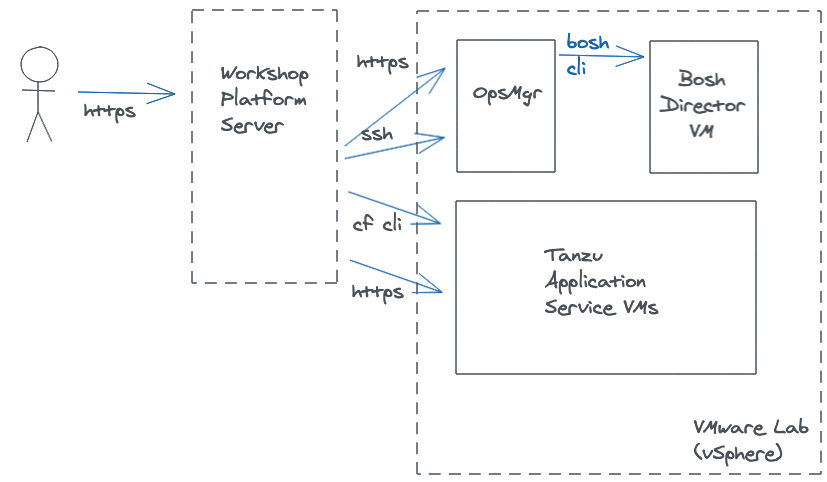
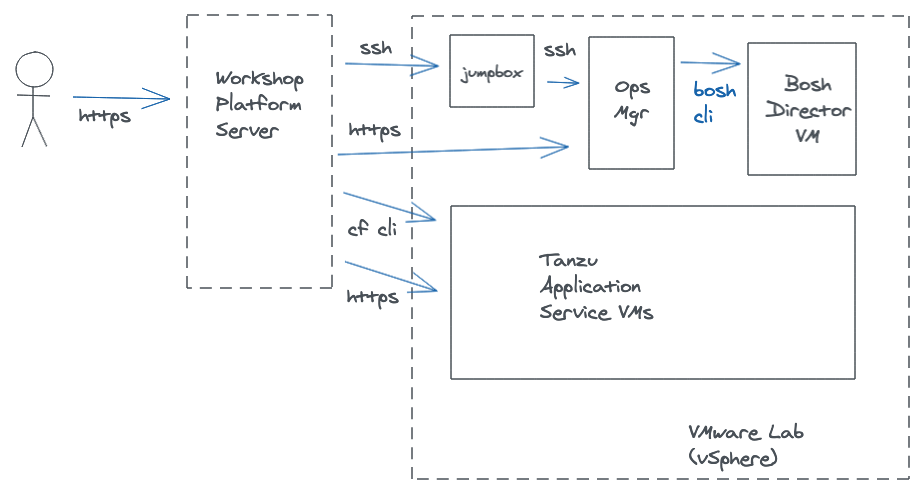
Update lab connectivity steps

diff --git a/workshop/content/labs/00_bosh_lab-connect.md b/workshop/content/labs/00_bosh_lab-connect.md
@@ -20,38 +20,44 @@ Familiarization with Workshop Lab environment.
 1. SSH into the jumpbox VM of your Lab environment
 
     ```execute
-    ssh ubuntu@ubuntu-236.haas-236.pez.pivotal.io
+    ssh -o "StrictHostKeyChecking no" ubuntu@ubuntu-236.haas-236.pez.pivotal.io
     ```
-1. Once into the jumpbox, SSH into the Ops Manager VM of your environment
+1. Once logged in to the jumpbox, SSH into the Ops Manager VM of your environment
 
     ```execute
     ssh ubuntu@opsmgr-01.haas-236.pez.pivotal.io
     ```
 
-1. Test connection to Ops Mgr web interface
+1. Test connectivity with Ops Mgr web interface
 
-    Hardcoded:  
-    ```dashboard:create-dashboard
+    <!-- Hardcoded:  
+    ` ` ` dashboard:create-dashboard
     name: OpsMgr
+    url: https://opsmgr-01.haas-236.pez.pivotal.io
+    ` ` ` -->
+
+    ``` dashboard:create-dashboard
+    name: MyOpsMgr
     url: https://opsmgr-01.haas-236.pez.pivotal.io
     ```
 
-    With LAB_SLOT_ID:
-    ```dashboard:create-dashboard
-    name: OpsMgr
-    url: https://opsmgr-01.haas-{{ LAB_SLOT_ID }}.pez.pivotal.io
+    ``` dashboard:create-dashboard
+    name: MyTest
+    url: https://google.com
     ```
 
-    With ENV_LAB_SLOT_ID:
-    ```dashboard:create-dashboard
-    name: OpsMgr
-    url: https://opsmgr-01.haas-{{ LAB_SLENV_LAB_SLOT_IDOT_ID }}.pez.pivotal.io
-    ```
 
+    Launch [Ops Manager user interface](https://opsmgr-01.haas-{{ LAB_SLOT_ID }}.pez.pivotal.io){:target="opsmgr"}
 
 1. Configure alias for BOSH commands  
-   - From the Ops Mgr web UI > Bosh Tile > Credentials tab, copy the contents of <"Bosh Commandline Credentials"  
-   - `alias bosh="<data-from-previous-step>"`
+
+    The BOSH CLI requires several parameters to run commands, such as the targeted BOSH Director environment and authentication credentials. 
+
+    To make that easier, you can define an alias containing all of those parameters and the Ops Manager web interface makes the content for that alias readily available in its credentials tab page.
+
+    From the Ops Mgr web UI > Bosh Tile > Credentials tab ([link](https://opsmgr-01.haas-{{ LAB_SLOT_ID }}.pez.pivotal.io/api/v0/deployed/director/credentials/bosh_commandline_credentials){:target="opsmgr"}), copy the contents of "Bosh Command line Credentials" and then define the alias issue the following command:  
+
+   `alias bosh="<command-from-ops-mgr-panel>"`
 
 ## Part 2: Inspect the Bosh Director environment
 

diff --git a/workshop/content/index.md b/workshop/content/index.md
@@ -1,7 +1,9 @@
-<img src="images/tanzu01.png" alt="VMware Tanzu" align="left" style="padding-right:40px;width:100px;" />
+<img src="images/tanzu01.png" alt="VMware Tanzu" align="left" style="width:120px;background-color:transparent;border:none;" />
 
+<br/>
 [Tanzu Application Service](https://docs.pivotal.io/application-service/2-10/concepts/overview.html) is a modern runtime for applications, built for developers to boost feature velocity and for operations teams to deliver world-class uptime.
 
+<br/>
 <br/>
 
 This workshop is intended to give you a quick hands introduction to BOSH, one of the foundation components of Tanzu Application Service, and to common tasks performed by platform engineers to inspect, diagnose and troubleshoot issues with the runtime. 

diff --git a/workshop/content/concepts/02_bosh_what-is-it-slide.md b/workshop/content/concepts/02_bosh_what-is-it-slide.md
@@ -72,8 +72,10 @@
 
 ---
 
-# Reference: Installing the BOSH CLI
+## Reference: Installing the BOSH CLI
 
+Your workshop environment has the BOSH CLI already installed. 
+For future reference on how to install it on your local environment, here is the documentation link for the setup steps:
 - https://www.bosh.io/docs/cli-v2-install/
 
 ---
